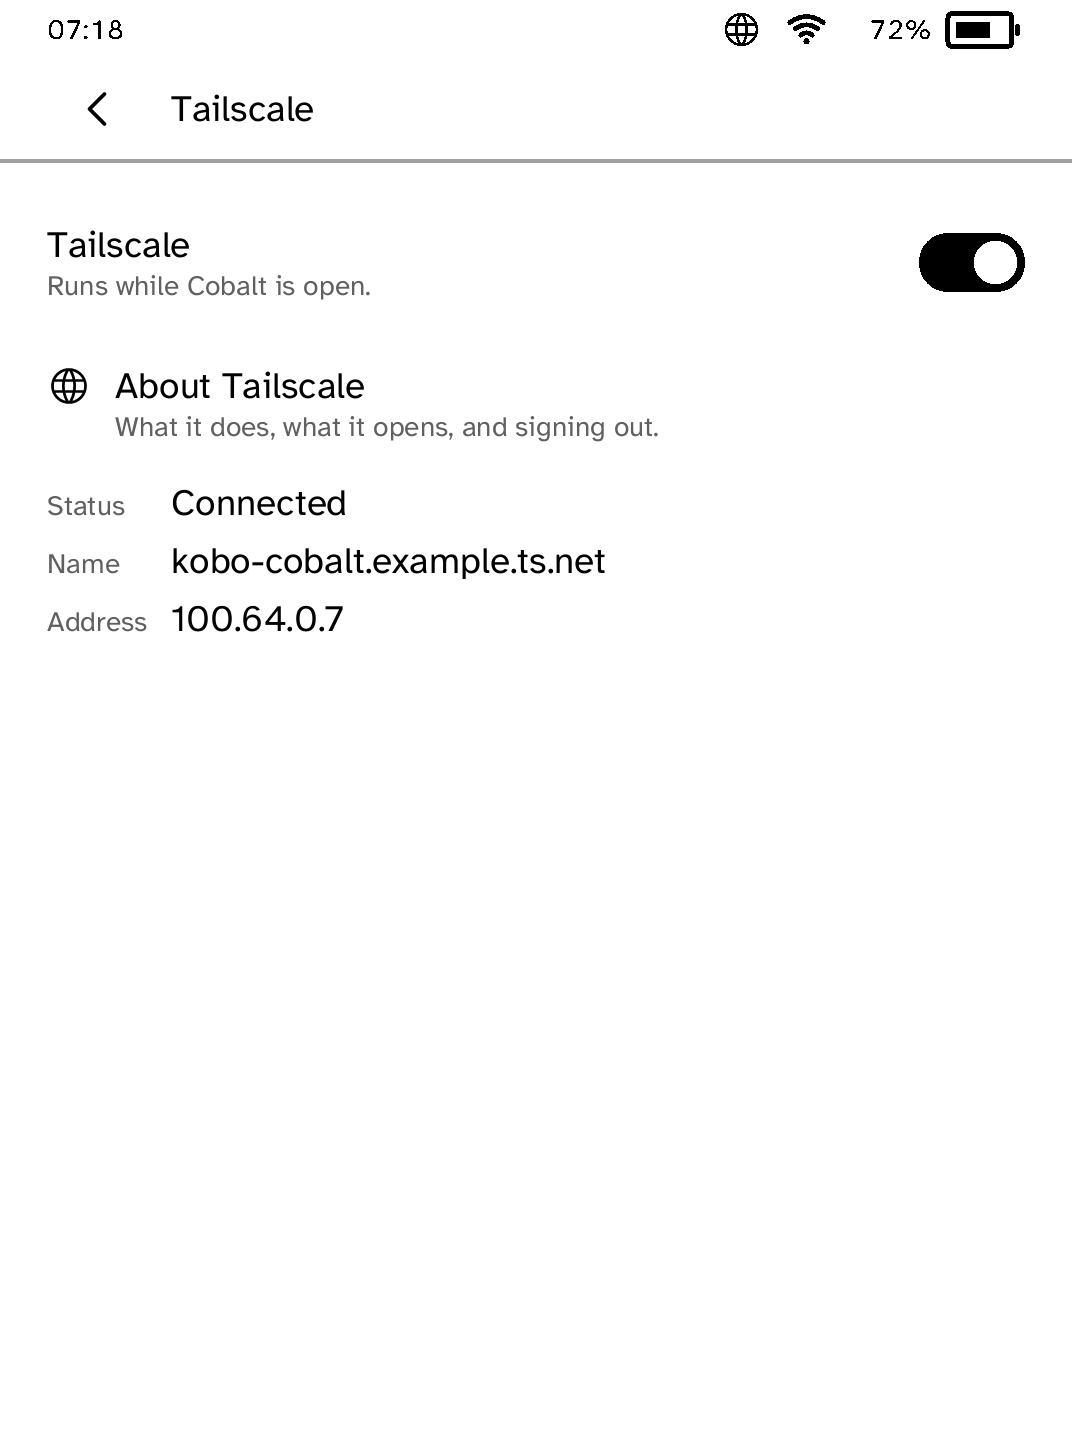
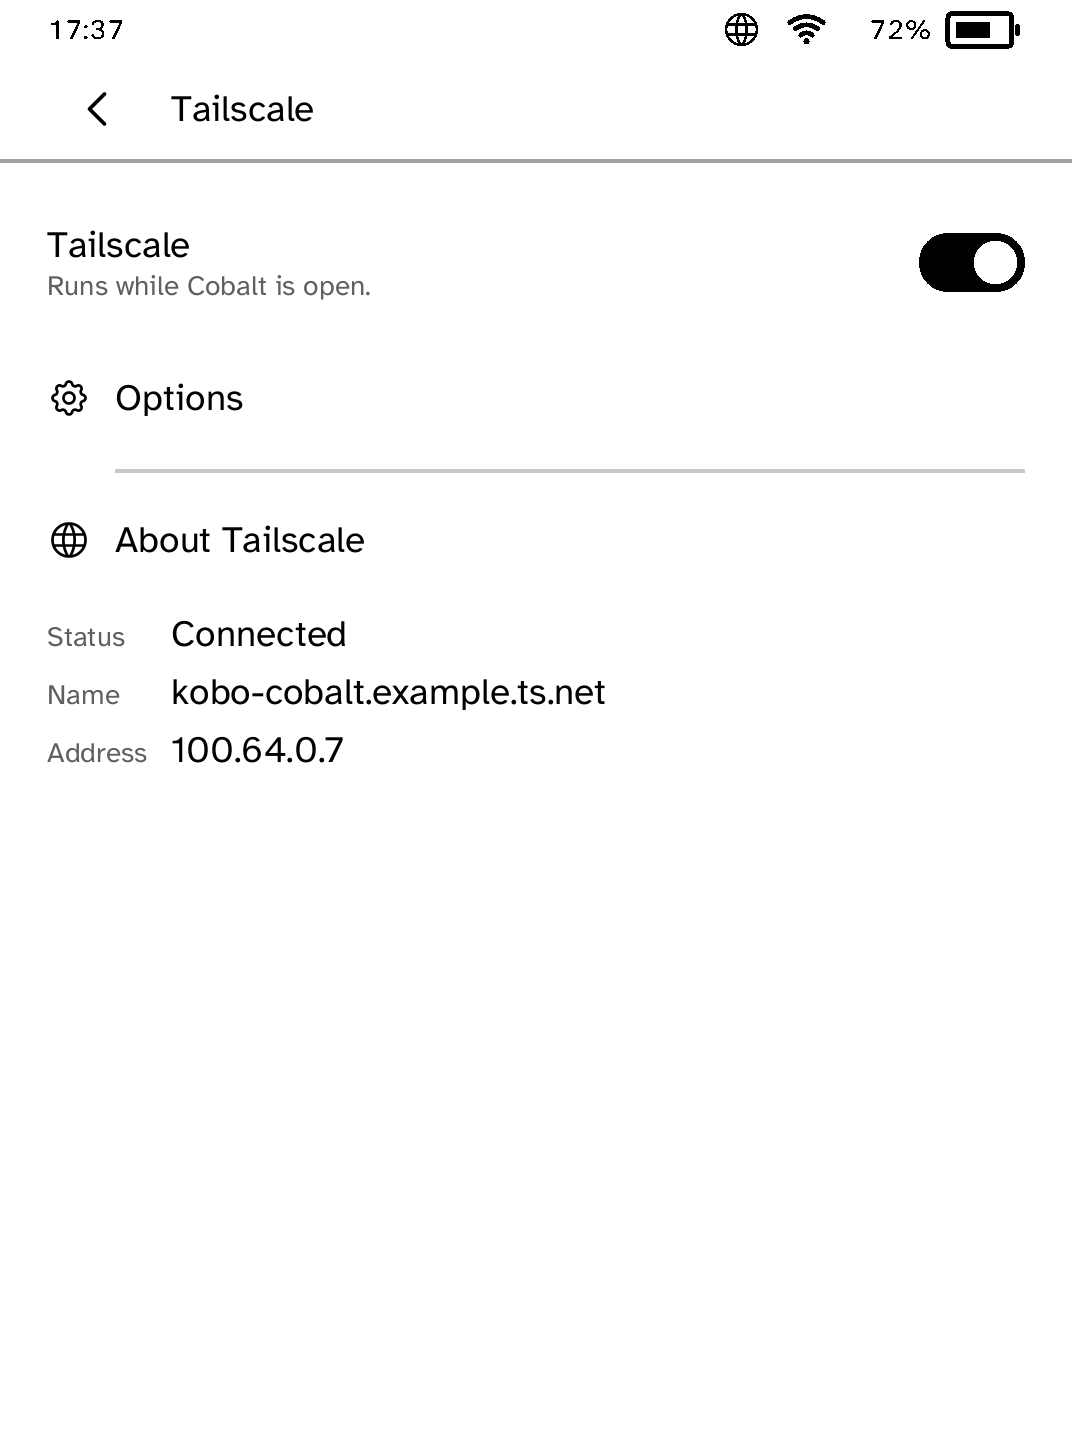
Take out the lines under titles that only said the title again
A row named Try again had Start Tailscale again now under it, About Tailscale listed what an about page holds, and a switch that was off said Off. A title stands on its own. A line goes under one only when it carries something the person needs at that moment and the title cannot say: that Tailscale is off and nothing reaches the reader, that an offer is waiting for approval and for which network, that something is not available on this reader.

So the four rows on the first screen and Sign out lose their lines, a switch that is off or still starting says only its name, Approved loses the sentence explaining what approval means, the code's caption no longer repeats the screen's title, and where to approve is said only while something is waiting to be approved. What staying connected costs is three short sentences once it is on. A test names the removed lines so they do not drift back, and the two screenshots are retaken.

Changed region(s): [[0.0308, 0.2486, 0.6157, 0.5283], [0.0924, 0.0, 0.1231, 0.0311]]

diff --git a/apps/tailscale/src/main.rs b/apps/tailscale/src/main.rs
@@ -274,7 +274,10 @@ impl Tailscale {
             screen = screen.banner(level, words);
         }
         // The line under the switch says what is true now, as the switch
-        // does, not what a tap would do.
+        // does, not what a tap would do. It is the only title on this
+        // screen with a line under it. A row's name says what the row is
+        // for, and a second line that says it again in more words is noise
+        // on a panel that redraws slowly and holds little.
         let summary = if self.staying() {
             "Stays connected after you leave Cobalt."
         } else if self.enabled {
@@ -284,12 +287,7 @@ impl Tailscale {
         };
         let mut rows = Vec::with_capacity(3);
         if self.waiting_for_approval() {
-            rows.push((
-                "sign-in",
-                "Approve this reader",
-                "Show the code to scan with your phone.",
-                Glyph::Key,
-            ));
+            rows.push(("sign-in", "Approve this reader", "", Glyph::Key));
         } else if self.enabled
             && (self.stalled
                 || matches!(
@@ -297,25 +295,10 @@ impl Tailscale {
                     "timed-out" | "needs-approval" | "failed" | "refused"
                 ))
         {
-            rows.push((
-                "retry",
-                "Try again",
-                "Start Tailscale again now.",
-                Glyph::Refresh,
-            ));
+            rows.push(("retry", "Try again", "", Glyph::Refresh));
         }
-        rows.push((
-            "options",
-            "Options",
-            "Stay connected, exit node, share this network.",
-            Glyph::Settings,
-        ));
-        rows.push((
-            "about",
-            "About Tailscale",
-            "What it does, what it opens, and signing out.",
-            Glyph::Globe,
-        ));
+        rows.push(("options", "Options", "", Glyph::Settings));
+        rows.push(("about", "About Tailscale", "", Glyph::Globe));
         let mut facts = Vec::with_capacity(3);
         if self.enabled {
             facts.push(("Status", self.state_words().to_owned()));
@@ -348,19 +331,19 @@ impl Tailscale {
             .toggle(
                 "stay",
                 "Stay connected outside Cobalt",
+                // Under a switch goes what the switch cannot say: that it is
+                // on and not working. Off, and on and working, it has said.
                 if cannot_stay {
                     "Not available on this reader right now."
-                } else if self.stay {
-                    "Until the reader restarts."
                 } else {
-                    "Stops when you leave Cobalt."
+                    ""
                 },
                 self.stay,
             );
         if cannot_stay {
             screen = screen.secondary(self.status.cannot_stay.clone());
         } else if self.stay {
-            screen = screen.secondary("Staying connected uses more battery. The Kobo software keeps Wi-Fi on only while the reader is awake, so the reader can be reached then and not while it sleeps. After a restart, open Cobalt once to connect again.");
+            screen = screen.secondary("Uses more battery. The Kobo software keeps Wi-Fi on only while the reader is awake. After a restart, open Cobalt once to connect again.");
         }
         // What each says under it comes from the runtime, which is the one
         // that knows whether the tailnet has approved it and whether this
@@ -372,10 +355,9 @@ impl Tailscale {
             "exit-node",
             "Offer as an exit node",
             match exit_node {
-                Offer::Off => "Off.",
-                Offer::Starting => "Starts with Tailscale.",
+                Offer::Off | Offer::Starting => "",
                 Offer::Waiting => "Waiting for approval.",
-                Offer::Approved => "Approved. Your devices can choose it.",
+                Offer::Approved => "Approved.",
                 Offer::Unavailable => "Not available on this reader.",
             },
             self.exit_node,
@@ -388,8 +370,7 @@ impl Tailscale {
             "share-network",
             "Share this network",
             match network {
-                Offer::Off => "Off.".to_owned(),
-                Offer::Starting => "Starts with Tailscale.".to_owned(),
+                Offer::Off | Offer::Starting => String::new(),
                 Offer::Waiting => format!("Waiting for approval: {}", self.status.shared),
                 Offer::Approved => format!("Shared: {}", self.status.shared),
                 Offer::Unavailable => "Not available here.".to_owned(),
@@ -404,11 +385,18 @@ impl Tailscale {
         {
             screen = screen.secondary(self.status.network_why.clone());
         }
-        if [exit_node, network]
+        // Where to approve is said only while something is waiting to be,
+        // and what it costs for as long as anything is offered.
+        let offers = [exit_node, network];
+        let unapproved = offers
             .iter()
-            .any(|offer| matches!(offer, Offer::Starting | Offer::Waiting | Offer::Approved))
-        {
-            screen = screen.secondary("Approve it once in the Tailscale admin console, under this reader's route settings. A reader is slow at this, and it stops carrying traffic when it sleeps or Tailscale stops.");
+            .any(|offer| matches!(offer, Offer::Starting | Offer::Waiting));
+        let offered = unapproved || offers.contains(&Offer::Approved);
+        if unapproved {
+            screen = screen.secondary("Approve it once in the Tailscale admin console, under this reader's route settings.");
+        }
+        if offered {
+            screen = screen.secondary("A reader is slow at this, and it stops carrying traffic when it sleeps or Tailscale stops.");
         }
         screen.build()
     }
@@ -424,7 +412,7 @@ impl Tailscale {
             .top_bar("Approve this reader")
             .code(
                 &self.status.sign_in,
-                "Scan with your phone, sign in to Tailscale and approve this reader.",
+                "Scan with your phone and sign in to Tailscale.",
             )
             .secondary("Or open this address on any phone or computer:")
             .command(&self.status.sign_in)
@@ -504,7 +492,7 @@ fn about_builder() -> ScreenBuilder {
         .rows([(
             "sign-out",
             "Sign out",
-            "Forget this reader's key before you give the reader away.",
+            "",
             Glyph::Trash,
         )])
 }
@@ -887,7 +875,6 @@ mod tests {
         let options = runner.action(action_id("options"));
         let said = words(screen(&options));
         assert!(said.contains("Stay connected outside Cobalt"));
-        assert!(said.contains("Stops when you leave Cobalt."));
         assert!(
             !said.contains("battery"),
             "a cost shown for a switch that is off"
@@ -900,8 +887,7 @@ mod tests {
         );
         let said = words(screen(&asked));
         for expected in [
-            "Until the reader restarts.",
-            "uses more battery",
+            "Uses more battery.",
             "only while the reader is awake",
             "After a restart, open Cobalt once to connect again.",
         ] {
@@ -966,7 +952,6 @@ mod tests {
             [(CONFIG.to_owned(), "true\nfalse\ntrue\ntrue\n".to_owned())]
         );
         let said = words(screen(&share));
-        assert!(said.contains("Starts with Tailscale."));
         assert!(said.contains("Approve it once in the Tailscale admin console"));
         assert!(said.contains("stops carrying traffic when it sleeps"));
     }
@@ -976,7 +961,7 @@ mod tests {
         let options = routing_app(ROUTING).options_screen();
         let said = words(&options);
         for expected in [
-            "Approved. Your devices can choose it.",
+            "Approved.",
             "Waiting for approval: 192.168.1.0/24",
             "Approve it once in the Tailscale admin console",
         ] {
@@ -989,7 +974,12 @@ mod tests {
         let both = routing_app(
             "running\n100.64.0.7\nConnected.\n\nkobo-cobalt.example.ts.net\n\napproved\napproved\n192.168.1.0/24\n\n\n",
         );
-        assert!(words(&both.options_screen()).contains("Shared: 192.168.1.0/24"));
+        let said = words(&both.options_screen());
+        assert!(said.contains("Shared: 192.168.1.0/24"));
+        // Nothing is waiting, so where to approve is no longer said. What
+        // it costs still is.
+        assert!(!said.contains("admin console"));
+        assert!(said.contains("stops carrying traffic when it sleeps"));
     }
 
     #[test]
@@ -1018,6 +1008,50 @@ mod tests {
         let said = words(&hotel.options_screen());
         assert!(said.contains("Waiting for approval."));
         assert!(said.contains("not a private home network"));
+    }
+
+    #[test]
+    fn no_title_has_a_line_under_it_that_only_says_the_title_again() {
+        // Every screen, in the states that show the most rows and switches.
+        let mut waiting = with_status(true, WAITING);
+        waiting.shown_link.clone_from(&waiting.status.sign_in);
+        let screens = [
+            with_status(false, "").status_screen(),
+            waiting.status_screen(),
+            with_status(
+                true,
+                "timed-out\n\nSign-in was not finished in time. Tap Try again for a new code.\n\n\n",
+            )
+            .status_screen(),
+            with_status(true, CONNECTED).options_screen(),
+            routing_app(ROUTING).options_screen(),
+            about_builder().build(),
+        ];
+        let said = screens.iter().map(words).collect::<Vec<_>>().join(" ");
+        for explains in [
+            "Show the code",
+            "Start Tailscale again",
+            "Stay connected, exit node",
+            "What it does",
+            "Forget this reader's key before",
+            "Stops when you leave Cobalt",
+            "Starts with Tailscale",
+            "Your devices can choose it",
+        ] {
+            assert!(
+                !said.contains(explains),
+                "{explains:?} is back under a title"
+            );
+        }
+        // What does stand under a title is a state, never a description.
+        let off = words(&with_status(false, "").status_screen());
+        assert!(off.contains("Off. Nothing reaches this reader over a tailnet."));
+        // And a switch that is off says only its name.
+        // The band's clock is the only other thing the page draws.
+        assert_eq!(
+            words(&with_status(true, CONNECTED).options_screen()),
+            "00:00 Tailscale options Stay connected outside Cobalt Offer as an exit node Share this network"
+        );
     }
 
     #[test]
